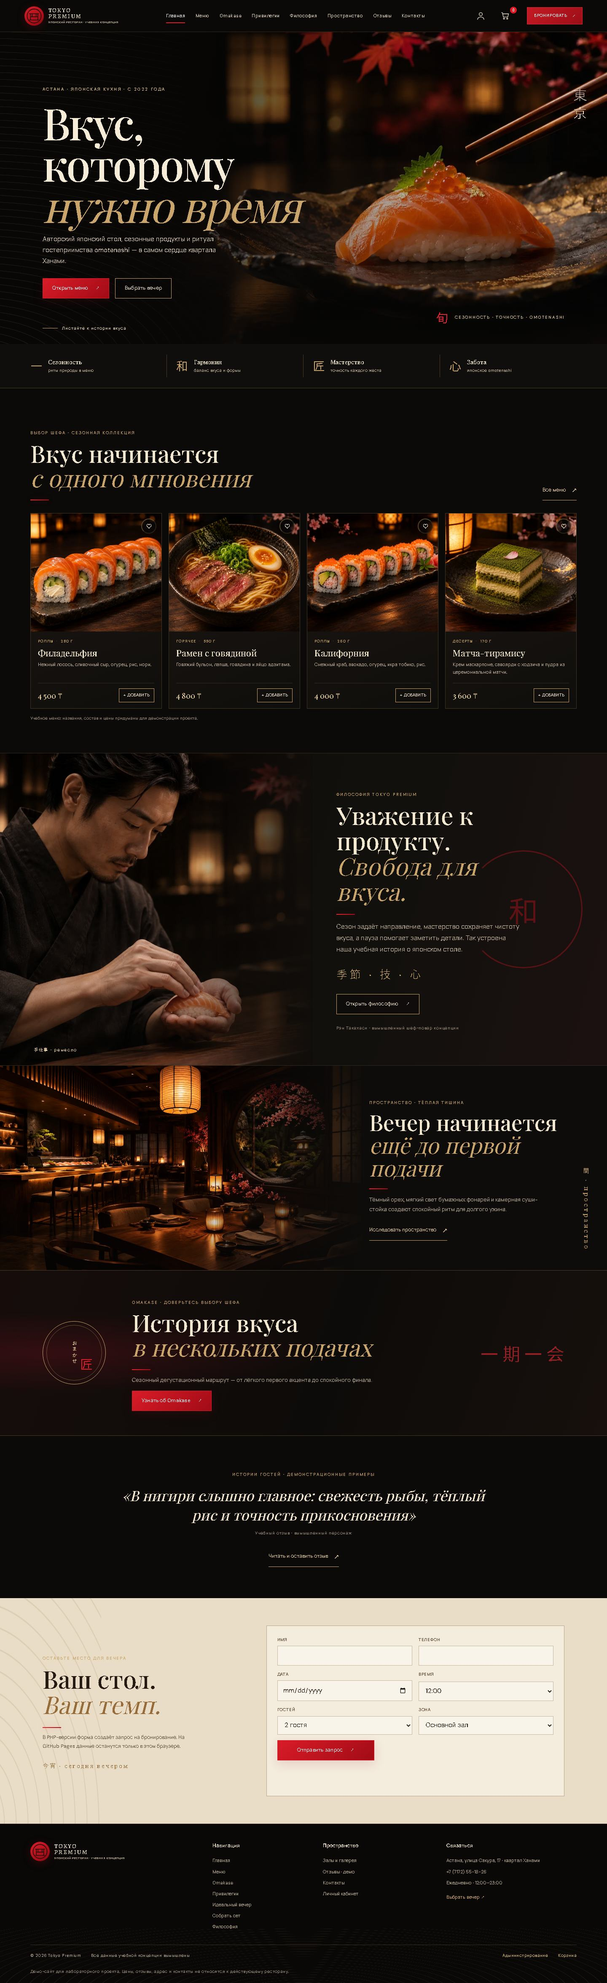
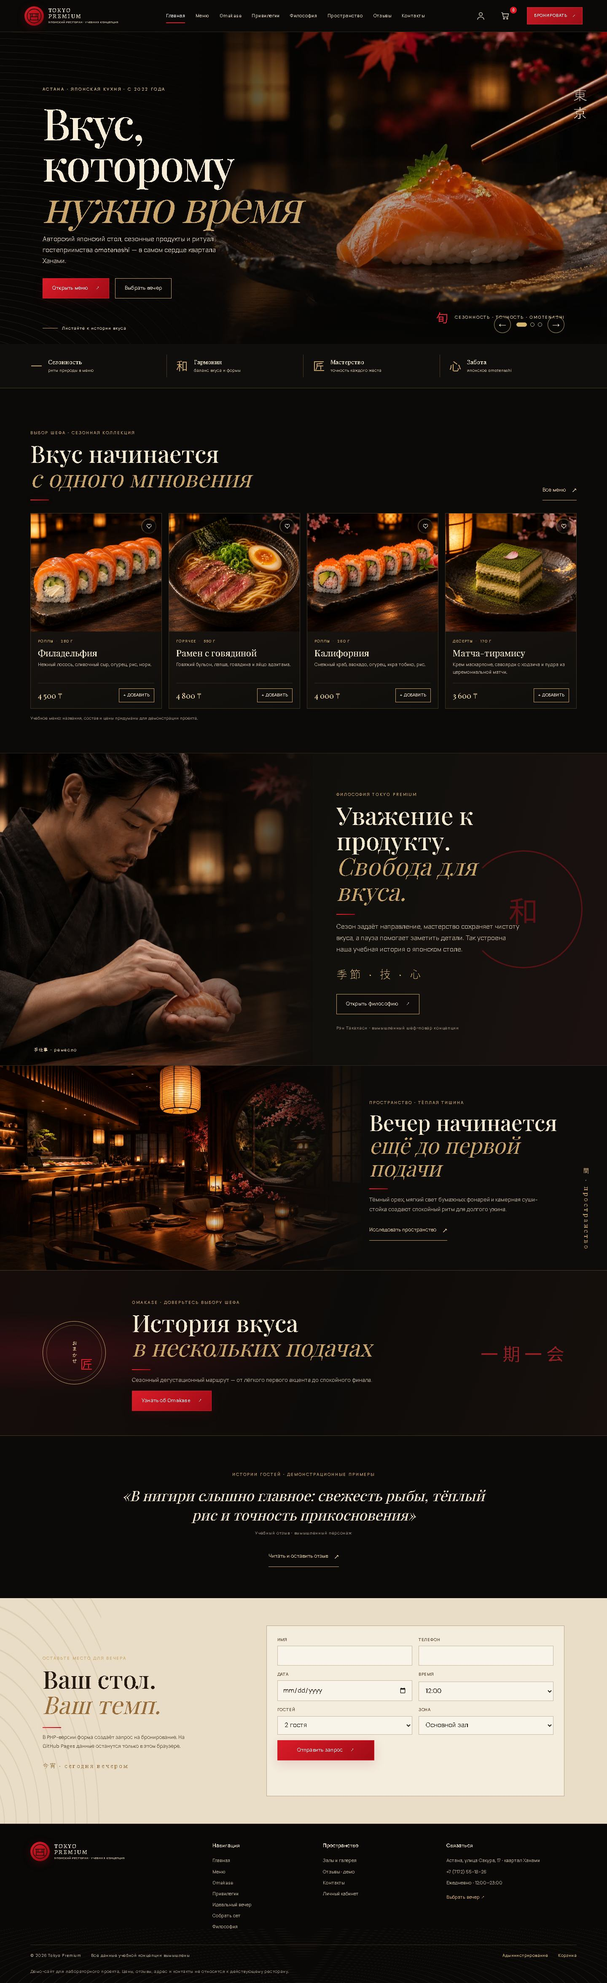
Add accessible cinematic homepage scenes

diff --git a/motion-system.js b/motion-system.js
@@ -1,0 +1,162 @@
+(() => {
+  const init = () => {
+    const hero = document.querySelector('[data-home-hero]');
+    if (!hero) return;
+
+    const data = document.querySelector('#home-hero-scenes');
+    const controls = hero.querySelector('[data-home-hero-controls]');
+    const image = hero.querySelector('.home-hero-photo--active');
+    const nextImage = hero.querySelector('[data-home-hero-next]');
+    const title = hero.querySelector('[data-home-hero-title]');
+    const accent = hero.querySelector('[data-home-hero-accent]');
+    const eyebrow = hero.querySelector('[data-home-hero-eyebrow]');
+    const lead = hero.querySelector('[data-home-hero-lead]');
+    const primary = hero.querySelector('[data-home-hero-primary]');
+    const secondary = hero.querySelector('[data-home-hero-secondary]');
+    const status = hero.querySelector('[data-home-hero-status]');
+    if (!data || !controls || !image || !nextImage || !title || !accent || !eyebrow || !lead || !primary || !secondary) return;
+
+    let scenes;
+    try { scenes = JSON.parse(data.textContent); } catch { return; }
+    if (!Array.isArray(scenes) || scenes.length < 2) return;
+
+    const reducedMotion = window.matchMedia('(prefers-reduced-motion: reduce)');
+    const staticRoutes = {
+      'menu.php': 'menu.html',
+      'pages.php?page=booking': 'booking.html',
+      'pages.php?page=omakase': 'omakase.html',
+      'set-builder.php': 'set-builder.html',
+      'about.php': 'about.html',
+      'pages.php?page=gallery': 'gallery.html'
+    };
+    const dots = [...controls.querySelectorAll('[data-home-hero-index]')];
+    let activeIndex = 0;
+    let changing = false;
+    let queuedIndex = null;
+    let pointerFrame = 0;
+
+    const safeHref = value => {
+      try {
+        const route = window.TOKYO_STATIC_DEMO ? (staticRoutes[value] || value) : value;
+        const url = new URL(route, window.location.href);
+        return url.origin === window.location.origin ? url.href : null;
+      } catch { return null; }
+    };
+    const updateLink = (link, config, arrow) => {
+      const href = safeHref(config?.href);
+      if (!href || typeof config?.label !== 'string') return;
+      link.href = href;
+      link.replaceChildren(document.createTextNode(config.label));
+      if (arrow) {
+        const mark = document.createElement('span');
+        mark.setAttribute('aria-hidden', 'true');
+        mark.textContent = ' ↗';
+        link.append(mark);
+      }
+    };
+    const updateCopy = scene => {
+      eyebrow.textContent = String(scene.eyebrow || 'TOKYO PREMIUM');
+      title.textContent = String(scene.title || 'Tokyo Premium');
+      accent.textContent = String(scene.accent || 'японская кухня');
+      lead.textContent = String(scene.lead || 'Японская кухня как искусство момента.');
+      updateLink(primary, scene.primary, true);
+      updateLink(secondary, scene.secondary, false);
+    };
+    const syncControls = () => dots.forEach((dot, index) => dot.setAttribute('aria-pressed', String(index === activeIndex)));
+    const delay = ms => new Promise(resolve => window.setTimeout(resolve, ms));
+
+    const showScene = async index => {
+      if (changing) { queuedIndex = index; return; }
+      const target = (index + scenes.length) % scenes.length;
+      if (target === activeIndex) return;
+      const scene = scenes[target];
+      const photoUrl = safeHref(scene.image);
+      if (!photoUrl) return;
+
+      changing = true;
+      hero.setAttribute('aria-busy', 'true');
+
+      let incomingReady = false;
+      if (!reducedMotion.matches && photoUrl !== image.src) {
+        nextImage.src = photoUrl;
+        try { await nextImage.decode(); incomingReady = nextImage.naturalWidth > 0; } catch { /* The existing scene remains visible if an optional photo fails. */ }
+      }
+
+      if (reducedMotion.matches || !incomingReady || photoUrl === image.src) {
+        if (reducedMotion.matches || incomingReady || photoUrl === image.src) {
+        image.src = photoUrl;
+        image.alt = String(scene.alt || 'Сцена Tokyo Premium — учебная концепция');
+        }
+        nextImage.removeAttribute('src');
+      } else {
+        hero.classList.add('is-crossfading');
+      }
+
+      hero.classList.add('is-text-changing');
+      await delay(reducedMotion.matches ? 0 : 120);
+      updateCopy(scene);
+      activeIndex = target;
+      syncControls();
+      if (status) status.textContent = `Сцена ${activeIndex + 1} из ${scenes.length}: ${scene.eyebrow}.`;
+      requestAnimationFrame(() => hero.classList.remove('is-text-changing'));
+
+      if (!reducedMotion.matches && hero.classList.contains('is-crossfading')) {
+        await delay(820);
+        image.src = photoUrl;
+        image.alt = String(scene.alt || 'Сцена Tokyo Premium — учебная концепция');
+        hero.classList.remove('is-crossfading');
+        nextImage.removeAttribute('src');
+      }
+
+      hero.removeAttribute('aria-busy');
+      changing = false;
+      if (queuedIndex !== null) {
+        const queued = queuedIndex;
+        queuedIndex = null;
+        if (queued !== activeIndex) showScene(queued);
+      }
+    };
+
+    controls.addEventListener('click', event => {
+      const button = event.target.closest('button');
+      if (!button) return;
+      if (button.hasAttribute('data-home-hero-index')) showScene(Number(button.dataset.homeHeroIndex));
+      else if (button.hasAttribute('data-home-hero-step')) showScene(activeIndex + Number(button.dataset.homeHeroStep));
+    });
+    controls.addEventListener('keydown', event => {
+      if (event.key !== 'ArrowRight' && event.key !== 'ArrowLeft') return;
+      const currentDot = event.target.closest('[data-home-hero-index]');
+      if (!currentDot) return;
+      event.preventDefault();
+      const step = event.key === 'ArrowRight' ? 1 : -1;
+      const nextIndex = (Number(currentDot.dataset.homeHeroIndex) + step + scenes.length) % scenes.length;
+      dots[nextIndex]?.focus();
+      showScene(nextIndex);
+    });
+    controls.hidden = false;
+
+    if (!reducedMotion.matches) {
+      requestAnimationFrame(() => hero.classList.add('is-ready'));
+      const finePointer = window.matchMedia('(hover: hover) and (pointer: fine)');
+      if (finePointer.matches) {
+        hero.addEventListener('pointermove', event => {
+          if (pointerFrame) cancelAnimationFrame(pointerFrame);
+          pointerFrame = requestAnimationFrame(() => {
+            const rect = hero.getBoundingClientRect();
+            const x = ((event.clientX - rect.left) / rect.width - 0.5) * -7;
+            const y = ((event.clientY - rect.top) / rect.height - 0.5) * -5;
+            hero.style.setProperty('--hero-shift-x', `${x.toFixed(1)}px`);
+            hero.style.setProperty('--hero-shift-y', `${y.toFixed(1)}px`);
+          });
+        }, { passive: true });
+        hero.addEventListener('pointerleave', () => {
+          hero.style.setProperty('--hero-shift-x', '0px');
+          hero.style.setProperty('--hero-shift-y', '0px');
+        }, { passive: true });
+      }
+    }
+  };
+
+  if (document.readyState === 'loading') document.addEventListener('DOMContentLoaded', init, { once: true });
+  else init();
+})();

diff --git a/tokyo20.css b/tokyo20.css
@@ -398,6 +398,34 @@
 @media(max-width:700px) { .tp20-offer-grid > .tp20-offer-card:only-child { grid-template-columns:1fr; } .tp20-offer-grid > .tp20-offer-card:only-child .tp20-offer-image img { min-height:0; aspect-ratio:1.6; } }
 @media(max-width:600px) { .tp20-course-heading { grid-template-columns:1fr; gap:8px; } .tp20-course-progress { width:100%; } .tp20-course-tabs button { flex:0 0 auto; } .tp20-course-photo,.tp20-course-photo img { min-height:240px; } .tp20-course-story dl>div { grid-template-columns:1fr; gap:4px; } .tp-set-catalog,.tp-evening-dishes,.tp20-code-list { grid-template-columns:1fr; } .tp-set-dish-card { grid-template-columns:110px minmax(0,1fr); } .tp-set-dish-card>img { min-height:160px; } .tp-recommendation-card { grid-template-columns:82px minmax(0,1fr); } .tp-recommendation-card img { width:82px; height:90px; } .tp20-checkout-quote .tp20-inline-form { grid-template-columns:1fr; } .tp20-evening-note { align-items:flex-start; flex-direction:column; gap:10px; } .tp20-course-story,.tp20-wizard { padding:20px; } .image-lightbox { padding:50px 12px; } }
 @media(prefers-reduced-motion:reduce) { .tp20-course-panel:not([hidden]) .tp20-course-photo img { animation:none; } }
+
+/* Tokyo Premium cinematic homepage controls: opt-in motion, no autoplay. */
+.home-hero-photo{will-change:opacity,transform;transform:scale(1.035) translate3d(var(--hero-shift-x,0px),var(--hero-shift-y,0px),0);transition:opacity .78s cubic-bezier(.22,.61,.36,1),transform 1.2s cubic-bezier(.22,.61,.36,1)}
+.home-hero-photo--next{opacity:0;pointer-events:none}
+.home-hero.is-crossfading .home-hero-photo--active{opacity:0}
+.home-hero.is-crossfading .home-hero-photo--next{opacity:1}
+.home-hero.is-ready .home-hero-photo--active{animation:tp20-camera-arrive 1.7s cubic-bezier(.2,.65,.25,1) both}
+.home-hero-copy{transition:opacity .22s ease,transform .32s cubic-bezier(.2,.65,.25,1)}
+.home-hero.is-text-changing .home-hero-copy{opacity:0;transform:translateY(9px)}
+.home-hero.is-ready .home-hero-copy>*{animation:tp20-copy-arrive .7s cubic-bezier(.2,.65,.25,1) both}
+.home-hero.is-ready .home-hero-copy>*:nth-child(2){animation-delay:.08s}
+.home-hero.is-ready .home-hero-copy>*:nth-child(3){animation-delay:.16s}
+.home-hero.is-ready .home-hero-copy>*:nth-child(4){animation-delay:.24s}
+.home-hero-controls{position:absolute;z-index:2;right:max(7vw,calc((100vw - var(--page-width))/2));bottom:26px;display:flex;align-items:center;gap:13px}
+.home-hero-controls[hidden]{display:none}
+.home-hero-arrow,.home-hero-dots button{display:grid;place-items:center;min-width:40px;min-height:40px;border:1px solid rgba(232,201,146,.7);border-radius:50%;background:rgba(10,9,8,.42);color:#f5e6c8;cursor:pointer;transition:background .2s ease,border-color .2s ease,color .2s ease,transform .2s ease}
+.home-hero-arrow{font-size:18px;line-height:1}
+.home-hero-dots{display:flex;align-items:center;gap:8px}
+.home-hero-dots button{min-width:10px;min-height:10px;width:10px;height:10px;padding:0;border-color:rgba(245,230,200,.8);background:transparent}
+.home-hero-dots button[aria-pressed=true]{width:25px;border-radius:999px;background:#d5b56d;border-color:#d5b56d}
+.home-hero-arrow:hover,.home-hero-dots button:hover{border-color:#d5b56d;background:rgba(183,23,34,.78);color:#fff;transform:translateY(-2px)}
+.home-hero-controls button:focus-visible{outline:2px solid #f4d79e;outline-offset:4px}
+.home-hero[aria-busy=true] .home-hero-controls button{cursor:wait}
+@keyframes tp20-camera-arrive{from{opacity:.72;transform:scale(1.085) translate3d(var(--hero-shift-x,0px),var(--hero-shift-y,0px),0)}to{opacity:1;transform:scale(1.035) translate3d(var(--hero-shift-x,0px),var(--hero-shift-y,0px),0)}}
+@keyframes tp20-copy-arrive{from{opacity:0;transform:translateY(13px)}to{opacity:1;transform:translateY(0)}}
+@media(max-width:900px){.home-hero-controls{right:22px;bottom:24px;gap:10px}.home-hero-arrow{min-width:38px;min-height:38px}.home-hero-dots{gap:7px}}
+@media(max-width:520px){.home-hero{padding-bottom:100px}.home-hero-controls{right:18px;bottom:22px}.home-hero-note{display:none}.home-hero-copy>*{max-width:100%}.home-hero h1{overflow-wrap:anywhere}}
+@media(prefers-reduced-motion:reduce){.home-hero-photo,.home-hero-copy,.home-hero-copy>*{animation:none!important;transition:none!important;transform:none!important;will-change:auto}.home-hero.is-crossfading .home-hero-photo--active{opacity:1}.home-hero.is-crossfading .home-hero-photo--next{opacity:0}.home-hero.is-text-changing .home-hero-copy{opacity:1;transform:none}}
 @media(max-width:900px) { .tp20-admin-metrics { grid-template-columns:repeat(3,minmax(0,1fr)); } .tp20-admin-fields { grid-template-columns:repeat(2,minmax(0,1fr)); } .tp20-account-overview { grid-template-columns:1fr; } }
 @media(max-width:600px) { .tp20-admin-metrics { grid-template-columns:repeat(2,minmax(0,1fr)); } .tp20-admin-fields, .tp20-account-grid, .tp20-ledger-list { grid-template-columns:1fr; } .tp20-admin-details ul { columns:1; } .tp20-referral-code strong { margin-right:0; } }
 

diff --git a/tools/export-pages.php b/tools/export-pages.php
@@ -6,7 +6,7 @@ $root = dirname(__DIR__);
 $docs = rtrim(getenv('TOKYO_EXPORT_DIR') ?: ($root . '/docs'), '/\\');
 $source = getenv('TOKYO_EXPORT_URL') ?: 'http://127.0.0.1:8080';
 if (!is_dir($docs) && !mkdir($docs, 0775, true) && !is_dir($docs)) throw new RuntimeException('Cannot create docs directory');
-foreach (['luxury.css','editorial.css','premium.css','luxury-refinements.css','tokyo20.css','experience-ui.css','cart-store.js','luxury.js','pages-extra.js','pages-demo.js','account-demo.js','reviews.js','navigation.js','experience-ui.js','tokyo-secret-demo.js','tokyo20.js'] as $asset) {
+foreach (['luxury.css','editorial.css','premium.css','luxury-refinements.css','tokyo20.css','experience-ui.css','cart-store.js','luxury.js','pages-extra.js','pages-demo.js','account-demo.js','reviews.js','navigation.js','experience-ui.js','tokyo-secret-demo.js','tokyo20.js','motion-system.js'] as $asset) {
     if (!copy($root . '/' . $asset, $docs . '/' . $asset)) throw new RuntimeException('Cannot copy ' . $asset);
 }
 $copyAssets = function (string $sourceDir, string $targetDir) use (&$copyAssets): void {

diff --git a/project-docs/testing-report.md b/project-docs/testing-report.md
@@ -7,7 +7,7 @@ Updated 2026-11-13
 | Check | Result | Evidence / scope |
 |---|---|---|
 | Cart store | Passed, 12/12 | Input sanitization, old-format migration, quantity limits, cross-tab state, checkout lock/retry key, custom-set bounds and clear/re-add behavior. |
-| PHP + SQLite integration | Passed, 102 assertions | Isolated database; six independent PHP processes race to initialize a clean SQLite file, WAL mode is verified, plus order price authority, idempotent and concurrent same-key orders, rollback, booking date/status, admin search/notifications, campaign targets, loyalty/order history, and Secret Menu route/API protection plus session unlock. The suite passed three consecutive runs after the CI-discovered locking fixes. |
+| PHP + SQLite integration | Passed, 114 assertions | Isolated database; six independent PHP processes race to initialize a clean SQLite file, WAL mode is verified, plus order price authority, idempotent and concurrent same-key orders, rollback, booking date/status, admin search/notifications, campaign targets, loyalty/order history, Secret Menu route/API protection plus session unlock, and server-validated custom-set pricing/composition. The 114-assertion suite passed hosted CI run 43341069860. |
 | PHP syntax | Passed | All 25 PHP application and support files linted with PHP 8.4. |
 | JavaScript syntax | Passed | Application JS and CJS regression files checked by Node. |
 | Core browser regression | Passed | 11 page types, all 20 dish details (18 public; 2 after a server-validated Secret Menu unlock), cart/checkout, tabs, favorites, navigation, menu filters and six viewport widths. |
@@ -17,6 +17,7 @@ Updated 2026-11-13
 | Responsive regression | Passed | 11 PHP page types × 14 widths (320–1920 px), plus static Pages header at 929/1024/1025 px; heading clipping checks, cart access, mobile/tablet menu keyboard behavior and booking dates across browser time zones. The 901–1023 px overflow band was reproduced on the public menu and fixed by moving the shared header/navigation breakpoint to 1024 px without changing the page-layout breakpoint. |
 | Gallery/profile visual state | Passed | Default gallery and static profile desktop/mobile captures. |
 | Visual fidelity follow-up | Passed | New `tests/visual-fidelity-regression.cjs` checks seven routes in PHP and static mode; unique home/menu heroes, all four visible home recommendations after scrolling, philosophy hero image, eight non-clipped gallery tiles, five catalog-backed Omakase overview photos, SVG preference floorplan, fictional map disclosure, image loading, mobile title geometry and no console errors. Captured 14 PHP desktop/mobile full-page screenshots. |
+| Cinematic home hero | Passed locally in PHP and static export | `test:motion` verifies three manual scenes, image/alt/copy/CTA synchronization, PHP-to-static route mapping, arrows and dots, keyboard control, rapid input queuing, no autoplay, reduced motion, no overflow and title/control bounds at 320, 360, 390, 430, 768, 1024, 1440 and 1920 px. Captures default and Omakase scenes on desktop/mobile. |
 | Static export | Passed | Exporter generated 36 pages; locked Secret Menu detail routes are omitted, stale generated detail pages are removed, and the client-only preview payload is generated separately. No PHP/backend files are exported. |
 | Diff hygiene | Passed | Feature and SQLite follow-up patches passed staged diff checks; release-documentation changes are checked before commit. |
 
@@ -40,11 +41,17 @@ The hosted [Pages workflow run 43312293771](https://github.com/altento/tokyo-pre
 
 After deployment, the public Pages site was opened with a cache-busting URL. Browser fetch checks returned HTTP 200 for 15 routes: home, menu, Omakase, offers, philosophy, gallery, reviews, contacts, booking, Perfect Evening, set builder, account, cart, Autumn in Kyoto collection, and gift certificates. The Offers page and its images loaded without failed same-origin requests; the browser recorded zero console errors and zero warnings. At 320 px and 390 px viewport widths, the Offers heading remained inside the viewport and there was no horizontal overflow.
 
-The local PHP/SQLite integration suite passed 102 assertions in three consecutive runs. Hosted CI also passed the integration suite under its multi-worker test configuration. Cart, Tokyo 2.0, review, responsive, and visual-state Playwright suites passed in the hosted build.
+The local PHP/SQLite integration suite now passes 114 assertions; hosted CI run 43341069860 passed the expanded suite under its multi-worker test configuration. Cart, Tokyo 2.0, review, responsive, and visual-state Playwright suites passed in the hosted build.
 
 The intermediate-width header correction was merged as `9599f3c4996e1eeb43948a1dba80c3bc62f06e29`. Follow-up [Pages workflow run 43320764592](https://github.com/altento/tokyo-premium/actions/runs/43320764592) completed with both build and deploy successful, including the expanded responsive regression. A fresh Playwright check of the deployed menu returned HTTP 200 at 929 px and 1025 px: 929 px had no horizontal overflow, retained the header cart, exposed booking and account links in the keyboard-operable menu, and closed on Escape; 1025 px restored the desktop navigation and booking CTA with no overflow. No failed same-origin requests or console errors were observed.
 
 A fresh pixel-by-pixel comparison of every current page against all 11 source PNG references remains incomplete. Screenshots and older visual gap notes remain in visual-qa/ and final-acceptance-report.md. No pixel-perfect acceptance is claimed.
+
+## Cinematic home follow-up (2026-11-13)
+
+The home hero now has three manually operated scenes: salmon nigiri, the seasonal Omakase table, and chef craft. Arrows, scene dots and left/right keyboard input update the photograph, alternative text, headings, lead copy and both actions together. No automatic rotation, video or audio was added. Pointer parallax runs only on fine-pointer devices; `prefers-reduced-motion` disables it and transition effects. Static links map to the exported `.html` routes.
+
+Local Playwright passed `test:motion` in PHP and the exported static build, including eight viewport widths and reduced-motion contexts. The screenshots and the rest of the current regression pass are indexed in `visual-qa/README.md`. Hosted CI and public Pages verification for this focused motion follow-up remain pending until its PR is pushed and deployed.
 
 ### Additional current-source visual check (2026-11-13)
 

diff --git a/project-docs/final-modernization-report.md b/project-docs/final-modernization-report.md
@@ -15,6 +15,7 @@ The existing PHP 8 + SQLite application and its GitHub Pages exporter remain the
 - A protected Marketing & Loyalty admin route for campaign, code, collection, gift-stock, Secret Menu and tier settings. Include/exclude targets can specify `dish:<id>`, `category:<slug>`, or `set:<slug>`; unknown targets and conflicting include/exclude rules are rejected. Target replacement shares a transaction with the campaign save.
 - Additive SQLite migrations for campaigns, promo use, collections, custom sets, loyalty ledger, referrals and certificate preview records.
 - Native CSS motion and responsive editorial components with reduced-motion support. The project does not add GSAP because the present sequences do not require a scroll-animation runtime.
+- Homepage hero now has three coordinated manual scenes with text, image-alt and CTA changes; keyboard arrows, dots, queued rapid input, no autoplay, fine-pointer-only parallax and `prefers-reduced-motion` support. Static scene links resolve to static routes. The transition is implemented with local CSS/deferred JavaScript rather than adding a heavy animation dependency.
 
 ## Verification
 
@@ -43,6 +44,10 @@ The menu, dish detail, Omakase and authenticated account were rechecked against 
 The focused regression suites and full local PHP/SQLite, responsive, cart, review, Tokyo 2.0, and visual-state suites passed. Exact commands, screenshot inventory and scope are in [testing-report.md](testing-report.md) and [visual-qa/README.md](visual-qa/README.md). This did not complete the requested pixel-by-pixel comparison of all 11 design references.
 
 The requested optional hero video was not created: the connected video workspace reported no available video models and zero credits. Existing optimized still photography remains the hero fallback; no video is simulated.
+
+### Cinematic homepage follow-up — 2026-11-13
+
+The home page now has three manually selected editorial scenes with coordinated photographs, alternative text, headings, lead copy and calls to action. Keyboard controls, queued rapid input, same-origin static route mapping and fine-pointer-only parallax are included; there is no autoplay. Reduced-motion behavior and layout at eight widths are covered in `test:motion`. Local PHP and static browser runs passed, and the captures are indexed in `visual-qa/README.md`. Hosted CI and publication verification are still pending for this follow-up. The later PR #17 backend suite expanded the SQLite integration count from the 102 assertions recorded above to 114; hosted run 43341069860 passed it.
 
 ## Release status
 

diff --git a/README.md b/README.md
@@ -25,6 +25,7 @@ php -d "extension_dir=$ext" -d extension=php_sqlite3.dll -d extension=php_pdo_sq
 ## Страницы и сценарии
 
 - Главная — бренд, рекомендации, философия и форма визита.
+- Главная — три вручную переключаемые hero-сцены: меню, Omakase и мастерство кухни. Автопрокрутки нет; стрелки, точки, клавиатура и режим reduced motion поддержаны.
 - Меню — категории, поиск, фильтр избранного, сортировка по цене/названию, карточки с переходом к блюду.
 - Страница блюда — описание, порция, учебная цена, добавление в корзину и рекомендации.
 - Omakase — описание ритуала, курсы и демонстрационные варианты сетов.
@@ -76,6 +77,8 @@ TOKYO_BASE_URL=http://127.0.0.1:8090 npm run test:reviews
 TOKYO_BASE_URL=http://127.0.0.1:8090 npm run test:cart-visual
 TOKYO_BASE_URL=http://127.0.0.1:8090 npm run test:responsive
 TOKYO_BASE_URL=http://127.0.0.1:8090 npm run test:visual-states
+TOKYO_BASE_URL=http://127.0.0.1:8090 TOKYO_STATIC_BASE_URL=http://127.0.0.1:8090/docs npm run test:visual-fidelity
+TOKYO_BASE_URL=http://127.0.0.1:8090 TOKYO_STATIC_BASE_URL=http://127.0.0.1:8090/docs npm run test:motion
 ```
 
 Браузерный прогон проверяет 11 типов страниц, все 20 карточек блюд, пользовательские сценарии и целевые ширины от 320 до 1920 px. Отдельный набор корзины фиксирует desktop при ширине 1440 CSS px и mobile при 390 px, проверяет уникальность блюд, загруженные фото, фактическую сумму и выбранный способ получения перед созданием полноразмерных скриншотов. При съёмке фиксируется шапка в обычном потоке документа, чтобы full-page кадры не получали повторную липкую шапку. Скриншоты и состояния хранятся в `project-docs/visual-qa/`; CI сохраняет их как Actions artifact `tokyo-premium-visual-qa`.

diff --git a/project-docs/implementation-plan.md b/project-docs/implementation-plan.md
@@ -29,12 +29,13 @@ The project remains the existing PHP 8+ application with SQLite. Public PHP rout
 
 ## Current verification record
 
-- PHP + SQLite integration suite: 102 assertions passed against an isolated database; six simultaneous PHP processes first initialize a clean database, WAL mode is verified, and the suite passed three consecutive runs.
+- PHP + SQLite integration suite: 114 assertions passed against an isolated database; six simultaneous PHP processes first initialize a clean database, WAL mode is verified, and the suite passed locally in UTC. Hosted CI run 43341069860 passed with its multi-worker HTTP server. Custom-set checkout verifies server-side prices, item snapshots and rejection of tampered compositions.
 - Cart state tests: 12 passed.
 - Browser suites passed for the 11 existing route types, 20 dish details (18 public plus two after an authorized Secret Menu unlock), Tokyo 2.0 interactions, reviews, cart states, responsive layouts and visual states.
 - Responsive checks covered 11 page types at widths 320, 360, 375, 390, 430, 768, 900, 1024 and 1440 px; 1920 px was included in the dedicated responsive run.
 - Static export generated 36 pages. Locked PHP dish routes are omitted; the Pages Secret Menu is a clearly bounded browser demo.
-- Local `npm ci` did not complete in this environment; browser tests used the already available pinned Playwright 1.65.0 runtime. CI's clean install remains the publication gate.
+- Local `npm ci` completed successfully with the pinned Playwright 1.65.0 dependency; browser suites ran against the current PHP app and a freshly exported 36-page static build.
+- Cinematic hero follow-up: manual three-scene controls, same-origin route mapping for static Pages, keyboard arrows, queued rapid input, no autoplay, reduced-motion behavior, and pointer-limited parallax are implemented and covered by `test:motion` at eight responsive widths in both modes.
 - Screenshot evidence is stored in `project-docs/visual-qa/`. Screenshots were inspected for selected states; this is not a pixel-by-pixel comparison of every section against all 11 reference PNGs.
 
 ## Boundaries

diff --git a/project-docs/visual-qa/README.md b/project-docs/visual-qa/README.md
@@ -52,4 +52,8 @@ Evidence filenames are `<page>-php-desktop.jpg` and `<page>-php-mobile.jpg`. The
 
 ### Server set validation follow-up
 
-The local PHP/SQLite integration suite now includes forged-price and invalid-composition cases for custom sets, plus persisted component price snapshots and rejection without partial order creation. It passed 114 assertions locally. This follow-up is not part of the already-published release yet; hosted CI is pending for these added assertions.
+The local PHP/SQLite integration suite includes forged-price and invalid-composition cases for custom sets, persisted component price snapshots, and rejection without partial order creation. The 114-assertion suite passed hosted CI run 43341069860 and was merged as `e09a6bd4d348211d155447622650fd52bac30e3f`; public deployment verification is tracked separately.
+
+## 2026-11-13 cinematic homepage follow-up
+
+`2.0-motion/` contains PHP and static screenshots for the homepage at desktop and mobile, plus the selected seasonal Omakase scene on desktop. The route-level full-page images were captured after scrolling through the page to trigger lazy images and reveals. `tests/motion-system-regression.cjs` checks both modes, three scenes, previous/next and dot controls, keyboard arrows, rapid queued input, changing links and image alt text, no autoplay, reduced motion and layout bounds at eight widths. The current screenshot set was visually inspected. This is a focused home-hero review, not completion of the outstanding full comparison against all eleven design references.

diff --git a/project-docs/design-system.md b/project-docs/design-system.md
@@ -22,4 +22,4 @@ Luxury Japanese dining through restrained contrast: lacquer charcoal, warm ivory
 
 Food and room photography is served from local WebP assets under `assets/food/` and `assets/generated/`. The original `tokyo-seasonal-omakase-v2.webp` image is a 1600×900 author-created editorial composition optimized to 148 KB. Offers and evening discovery use first-party imagery without requests to missing fallback URLs. Images describe the fictional school concept; they do not document a real restaurant, chef or served dish.
 
-Motion uses deferred JavaScript and short opacity/transform transitions. The SVG floor plan selects preferences only. No autoplay sound or video is used. `prefers-reduced-motion` disables reveal transforms and transition-heavy behavior.
+Motion uses deferred JavaScript and short opacity/transform transitions. The homepage has three manually selected editorial scenes for nigiri, seasonal Omakase, and chef craft. It does not autoplay. Keyboard arrows and buttons operate the same controls; a subtle pointer parallax is limited to fine-pointer devices. `motion-system.js` changes the image, alternative text, copy, and same-origin calls to action together. The static export maps those calls to `.html` routes. The SVG floor plan selects preferences only. No autoplay sound or video is used. `prefers-reduced-motion` disables reveal transforms, parallax, and transition-heavy behavior.

diff --git a/project-docs/content-inventory.md b/project-docs/content-inventory.md
@@ -10,6 +10,7 @@ Updated 2026-11-13
 | Chef voice and service descriptions | Editorial copy | Fictional writing, not a real person's quote |
 | Guest reviews | Seed data and review page | Fictional demonstrations; no real rating claim |
 | Food and interior photography | Local WebP assets in `assets/food/` and `assets/generated/` | Illustrative concept photography, not proof of a location or served dishes |
+| Homepage hero stories | `index.php`, `motion-system.js`, and the existing home, seasonal Omakase, and chef WebP assets | Three manually selected, fictional editorial scenes; no autoplay and no video simulation |
 | Customer profile, bookings, orders and messages on Pages | Browser localStorage | Test-only records on the current browser |
 | PHP orders, bookings, messages, reviews and admin users | SQLite | Local educational data; not connected to a real restaurant |
 

diff --git a/AGENTS.md b/AGENTS.md
@@ -7,4 +7,5 @@
 - Update README and `project-docs/` when routes, data behavior, deployment or limitations change.
 - Keep Tokyo Premium 2.0 in the existing PHP/SQLite and static-export architecture. PHP is authoritative for prices, promotion limits, loyalty ledger events and account ownership; GitHub Pages scenarios must be labeled and stored as browser-local demonstrations.
 - When cart, promotion, profile, booking or image behavior changes, run `test:tokyo20` and the focused existing browser/cart tests, then update the evidence index and report with actual results.
+- Homepage motion changes also require `test:motion`, the current visual-fidelity suite, reduced-motion coverage and PHP/static route verification.
 - Workflow: GitHub Actions exports `docs/` and deploys it to Pages after pushes to `main`.
